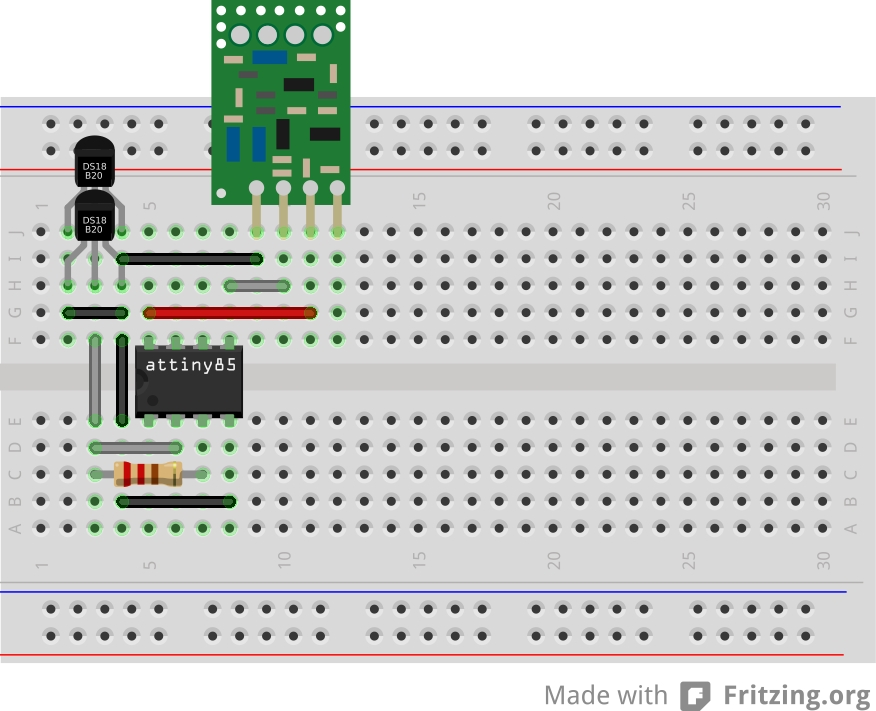
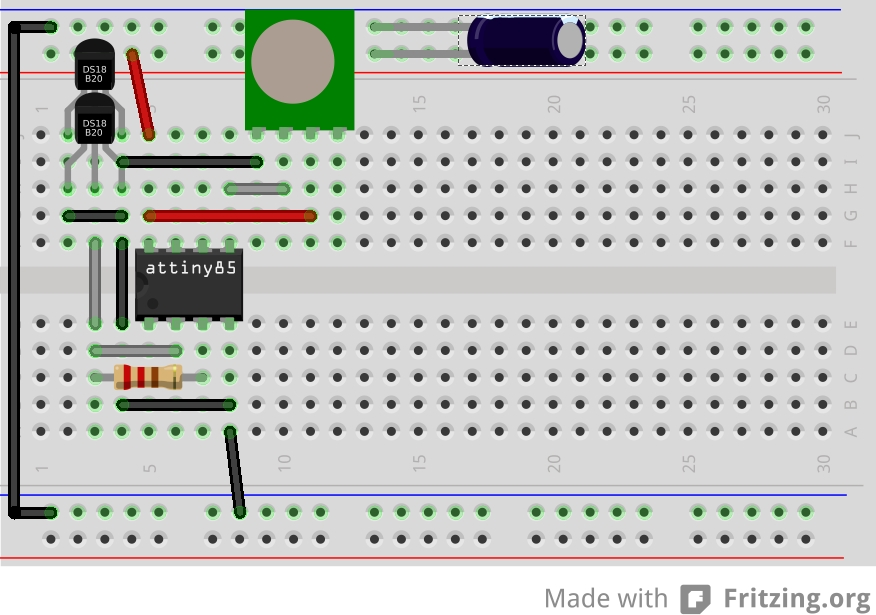
Add capacitor to digram, change RF component, README update

diff --git a/examples/Wireless/CosaWirelessDS18B20/README.md b/examples/Wireless/CosaWirelessDS18B20/README.md
@@ -3,7 +3,8 @@ CosaWirelessDS18B20
 Demonstration sending temperature readings from two 1-Wire [DS18B20](http://datasheets.maximintegrated.com/en/ds/DS18B20.pdf)
 devices over the Wireless Interface and devices. Uses power down mode
 with only watchdog active (5-6 uA on ATtiny85-20PU). This sketch is
-designed to run on an ATtiny85 running on the internal 8 MHz clock. 
+designed to run on an ATtiny85 running on the internal 8 MHz clock with
+parasite powering of the 1-wire bus. 
 
 Circuit
 -------
